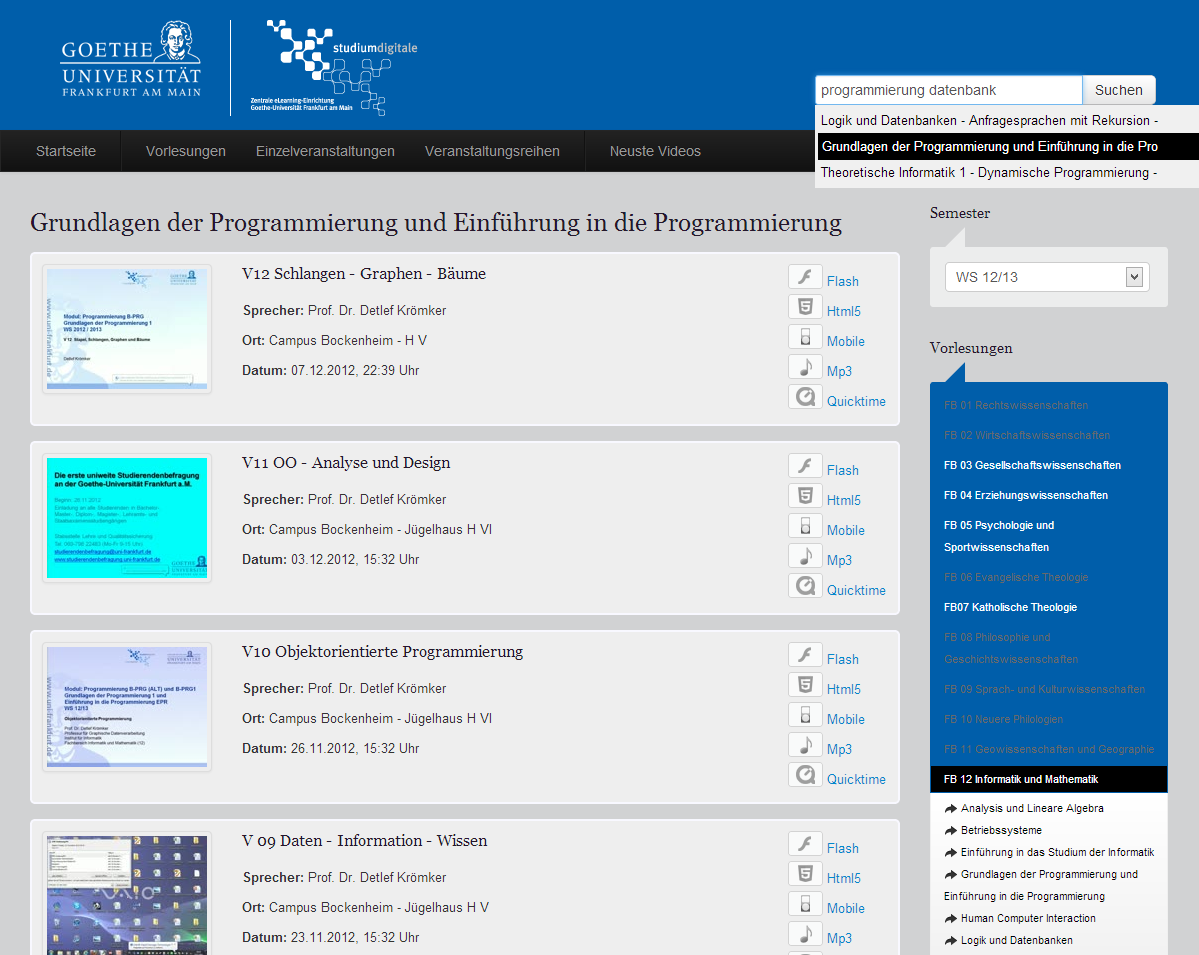
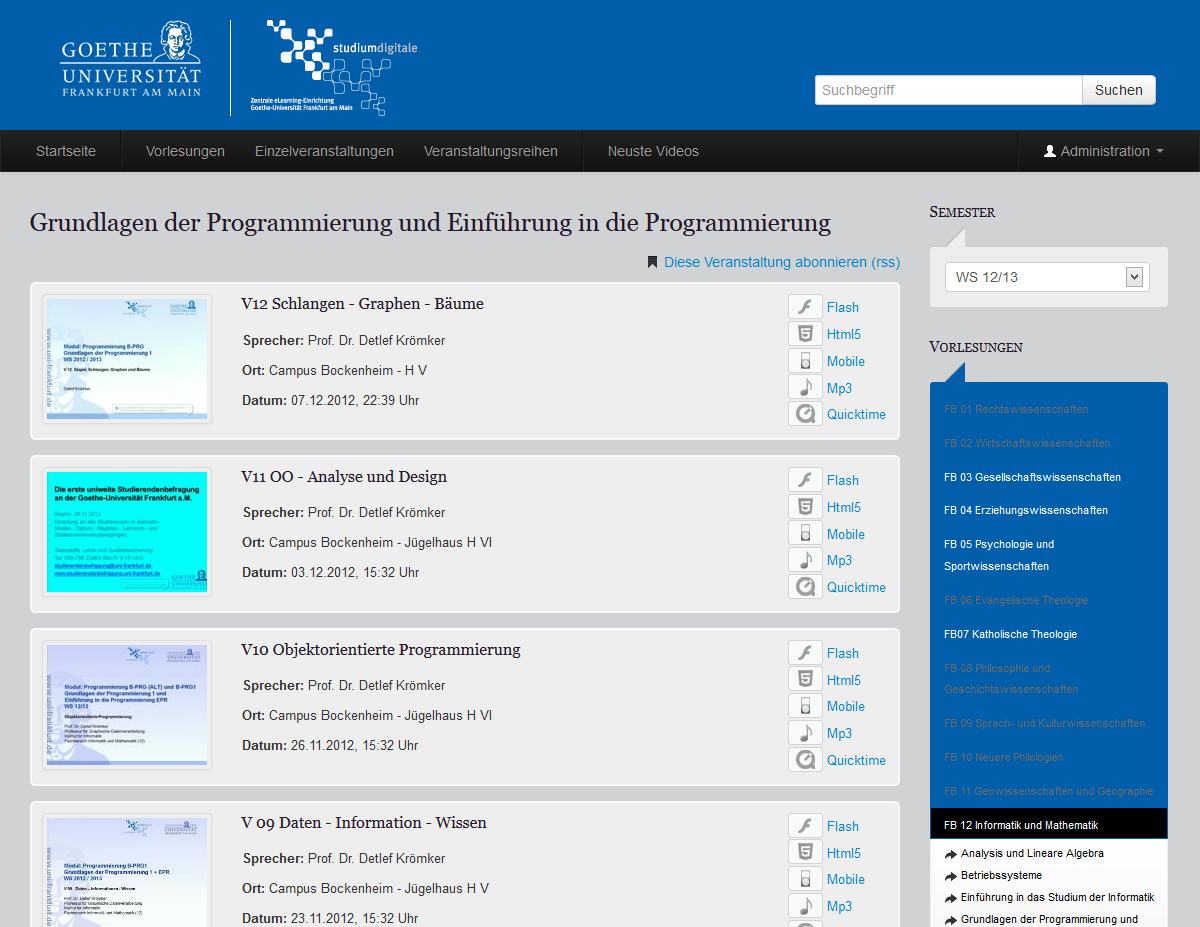
* Integrating RSS feed for all lectures. All video list urls only require ".rss" appended to show the feed. * Updating style for accordion. * Updating screenshots. * Removing redundant method from ListingHelper.php.

Changed region(s): [[0.0, 0.0, 1.0, 1.0]]

diff --git a/app/webroot/css/main.less b/app/webroot/css/main.less
@@ -434,10 +434,6 @@ ul.video-list {
     padding: 3px 0px;
 }
 
-.ui-accordion .ui-accordion-header {
-    padding: 1px 13px 3px !important;
-}
-
 ul.static-list {
     list-style: none !important;
     margin: 0 !important;
@@ -445,4 +441,8 @@ ul.static-list {
 
 div#listings {
     margin-bottom: 60px;
+}
+
+.feed {
+    margin-bottom: 10px;
 }

diff --git a/app/webroot/css/main.css b/app/webroot/css/main.css
@@ -359,13 +359,13 @@ ul.video-list {
   border-bottom: 1px dotted black;
   padding: 3px 0px;
 }
-.ui-accordion .ui-accordion-header {
-  padding: 1px 13px 3px !important;
-}
 ul.static-list {
   list-style: none !important;
   margin: 0 !important;
 }
 div#listings {
   margin-bottom: 60px;
+}
+.feed {
+  margin-bottom: 10px;
 }

diff --git a/app/View/Helper/ListingHelper.php b/app/View/Helper/ListingHelper.php
@@ -8,40 +8,6 @@
  */
 class ListingHelper extends AppHelper {
 
-    public function generateRowsRecursively($listings, $className = 'parent', $depth = 0) {
-        $html = '';
-
-        foreach ($listings as $listing) {
-            $id = $listing['Listing']['id'];
-            $name = $listing['Listing']['name'];
-            $code = $listing['Listing']['code'];
-            $indent = (($depth > 0) ? "'" : "") . str_repeat('--', $depth);
-
-            $html .= '<tr id="list_'.$id.'" class="'.$className.' depth-'.$depth.'">';
-            $html .= '<td class="center"><span class="icon-resize-vertical"></span></td>';
-            $html .= '<td class="center"><span class="icon-arrow-left"></span></td>';
-            $html .= '<td class="center"><span class="icon-arrow-right"></span></td>';
-            $html .= '<td>';
-            $html .= '    <table style="embedded-col"><tbody><tr>';
-            $html .= '    <td>'.$indent.'</td><td><input class="name" type="text" value="'.$name.'" /></td>';
-            $html .= '    </tr></tbody></table>';
-            $html .= '</td>';
-            $html .= '<td><input class="code" type="text" value="'.$code.'" /></td>';
-            $html .= '<td><label class="checkbox"><input type="checkbox" />'.__('Deaktiv.').'</label></td>';
-            $html .= '<td><label class="checkbox"><input type="checkbox" />'.__('Dyn. expad.').'</label></td>';
-            $html .= '<td><label class="checkbox"><input type="checkbox" />'.__('Aufst. Sort.').'</label></td>';
-            $html .= '<td class="center"><button class="btn btn-mini">'.__('Hinzuf.').'</button></td>';
-            $html .= '<td class="center"><button class="btn btn-danger btn-mini">'.__('Lösch.').'</button></td>';
-            $html .= '</tr>';
-
-            if (sizeof($listing['children'] > 0)) {
-                $depth += 1;
-                $html .= $this->generateRowsRecursively($listing['children'], 'child', $depth);
-            }
-        }
-        return $html;
-    }
-
     public function renderIndex($videos) {
         $html = '<ol class="video-index">';
 

diff --git a/app/Controller/ListingsController.php b/app/Controller/ListingsController.php
@@ -7,7 +7,9 @@ App::uses('AppController', 'Controller');
  */
 class ListingsController extends AppController {
 
-    public $helpers = array('Listing');
+    public $helpers = array('Listing', 'Text', 'Rss');
+
+    public $components = array('RequestHandler');
 
     public function beforeFilter() {
         parent::beforeFilter();
@@ -74,6 +76,23 @@ class ListingsController extends AppController {
 
         if (!$this->Listing->exists()) {
             throw new NotFoundException(__('Ungültige Videoliste'));
+        }
+
+        if ($this->RequestHandler->isRss() ) {
+
+            $listings = $this->Listing->find('first', array(
+                'recursive' => 1,
+                'conditions' => array('Listing.id' => $id)
+            ));
+
+            $channel = array(
+                'title' => $listings['Listing']['name'],
+                'link' => '/',
+                'description' => __('Neusten Videos'),
+                'language' => 'DE-de'
+            );
+
+            return $this->set(compact('listings', 'channel'));
         }
 
         // Update all children

diff --git a/app/Model/Listing.php b/app/Model/Listing.php
@@ -66,7 +66,7 @@ class Listing extends AppModel {
         // because the processing is pretty elaborate.
         if (!$videos) {
             $videos = $this->find('all', array(
-                'fields' => array('Listing.name', 'Listing.id', 'Listing.parent_id', 'Listing.dynamic_view'),
+                'fields' => array('Listing.name', 'Listing.id', 'Listing.parent_id', 'Listing.dynamic_view', 'Listing.term_id', 'Listing.category_id'),
                 'conditions' => array('Listing.id' => $childIds),
                 'recursive' => 2
             ));
